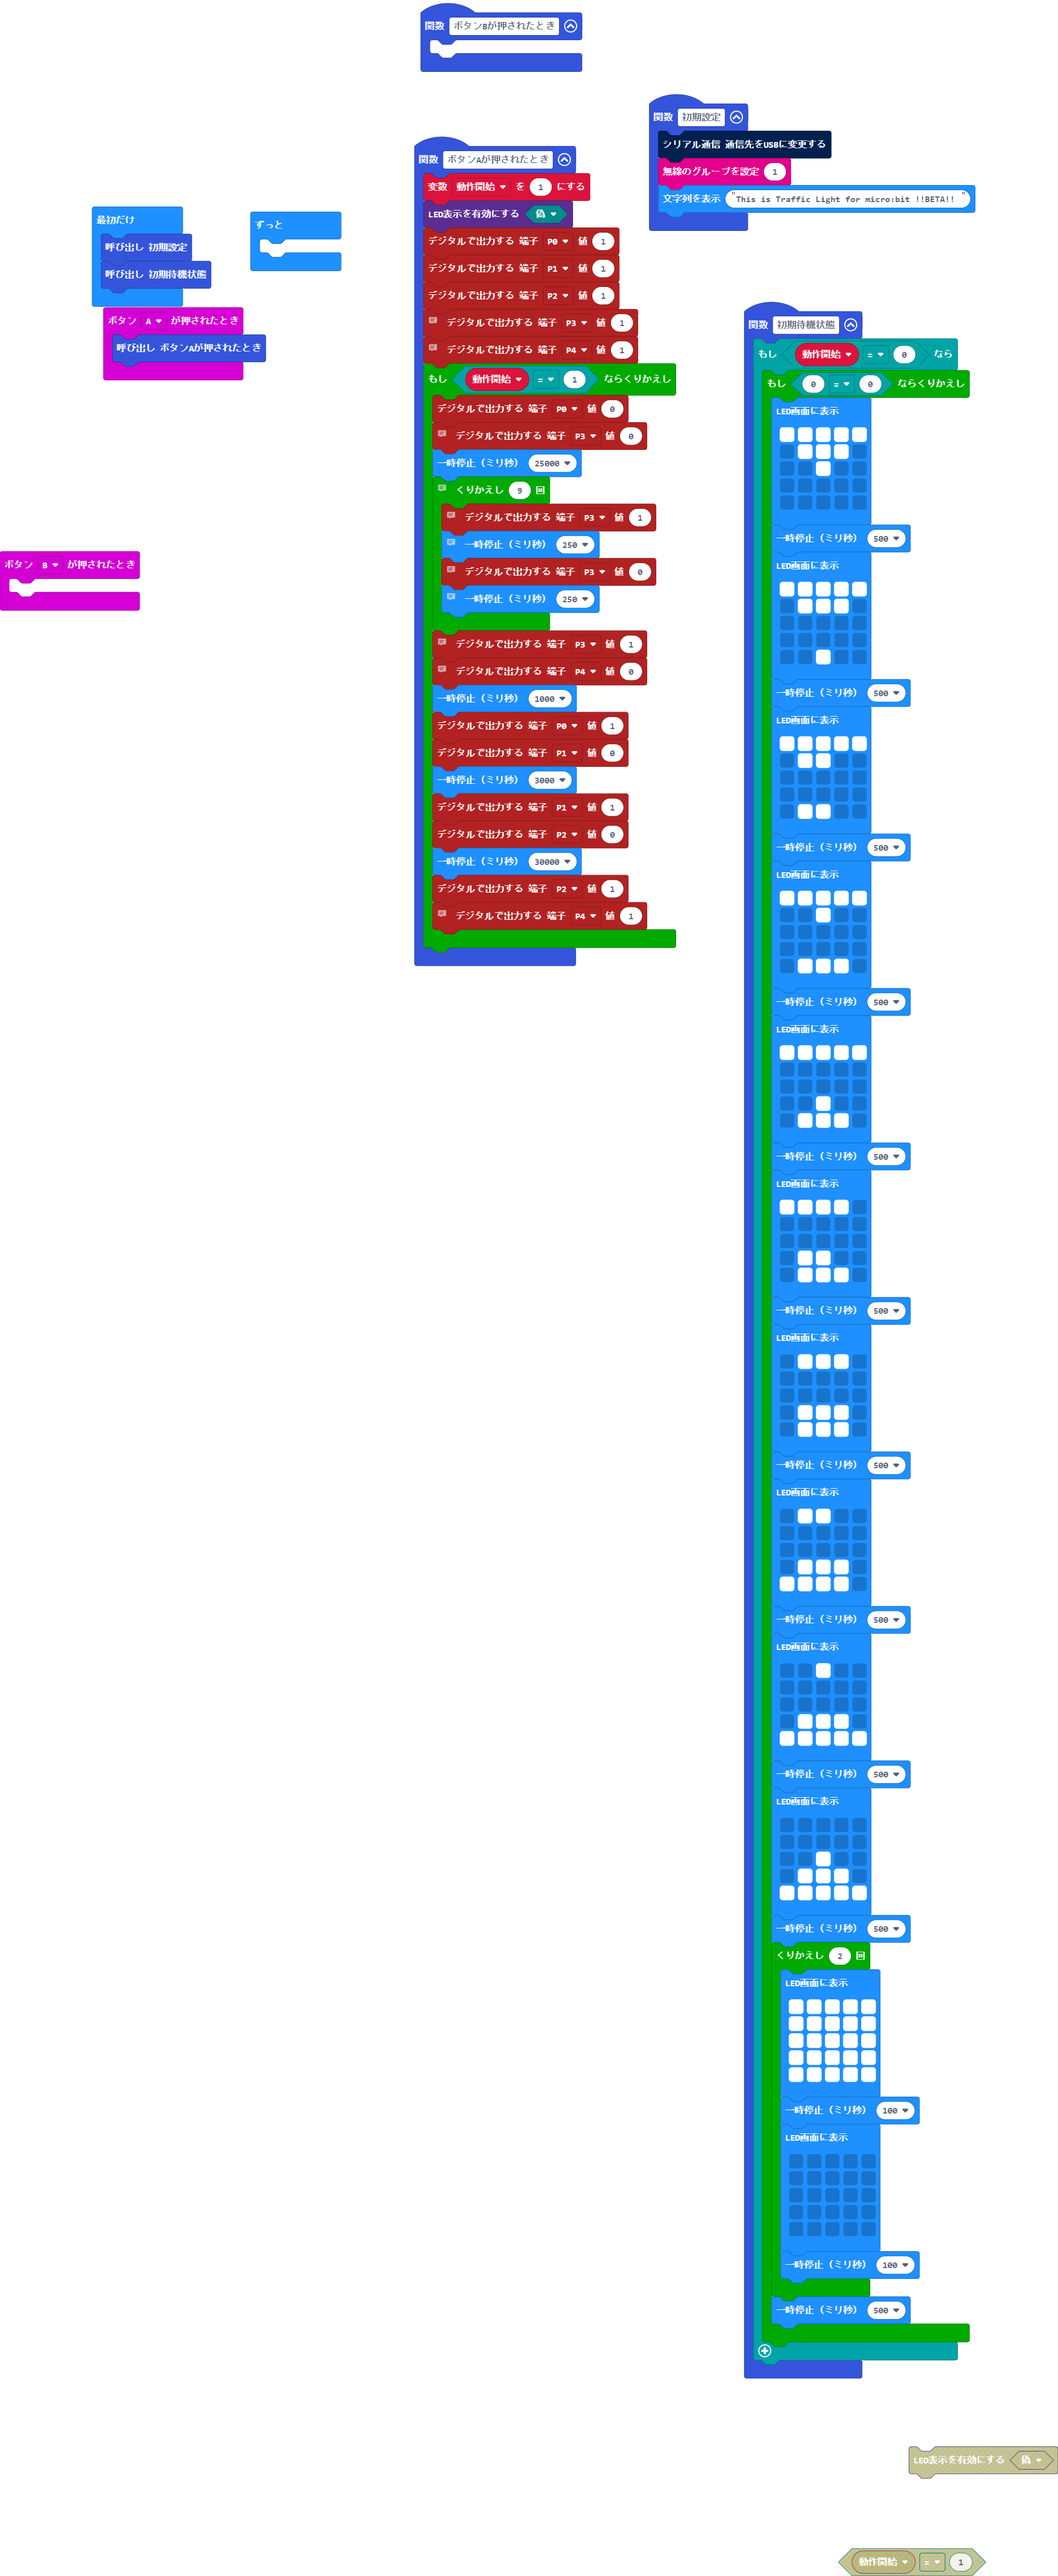
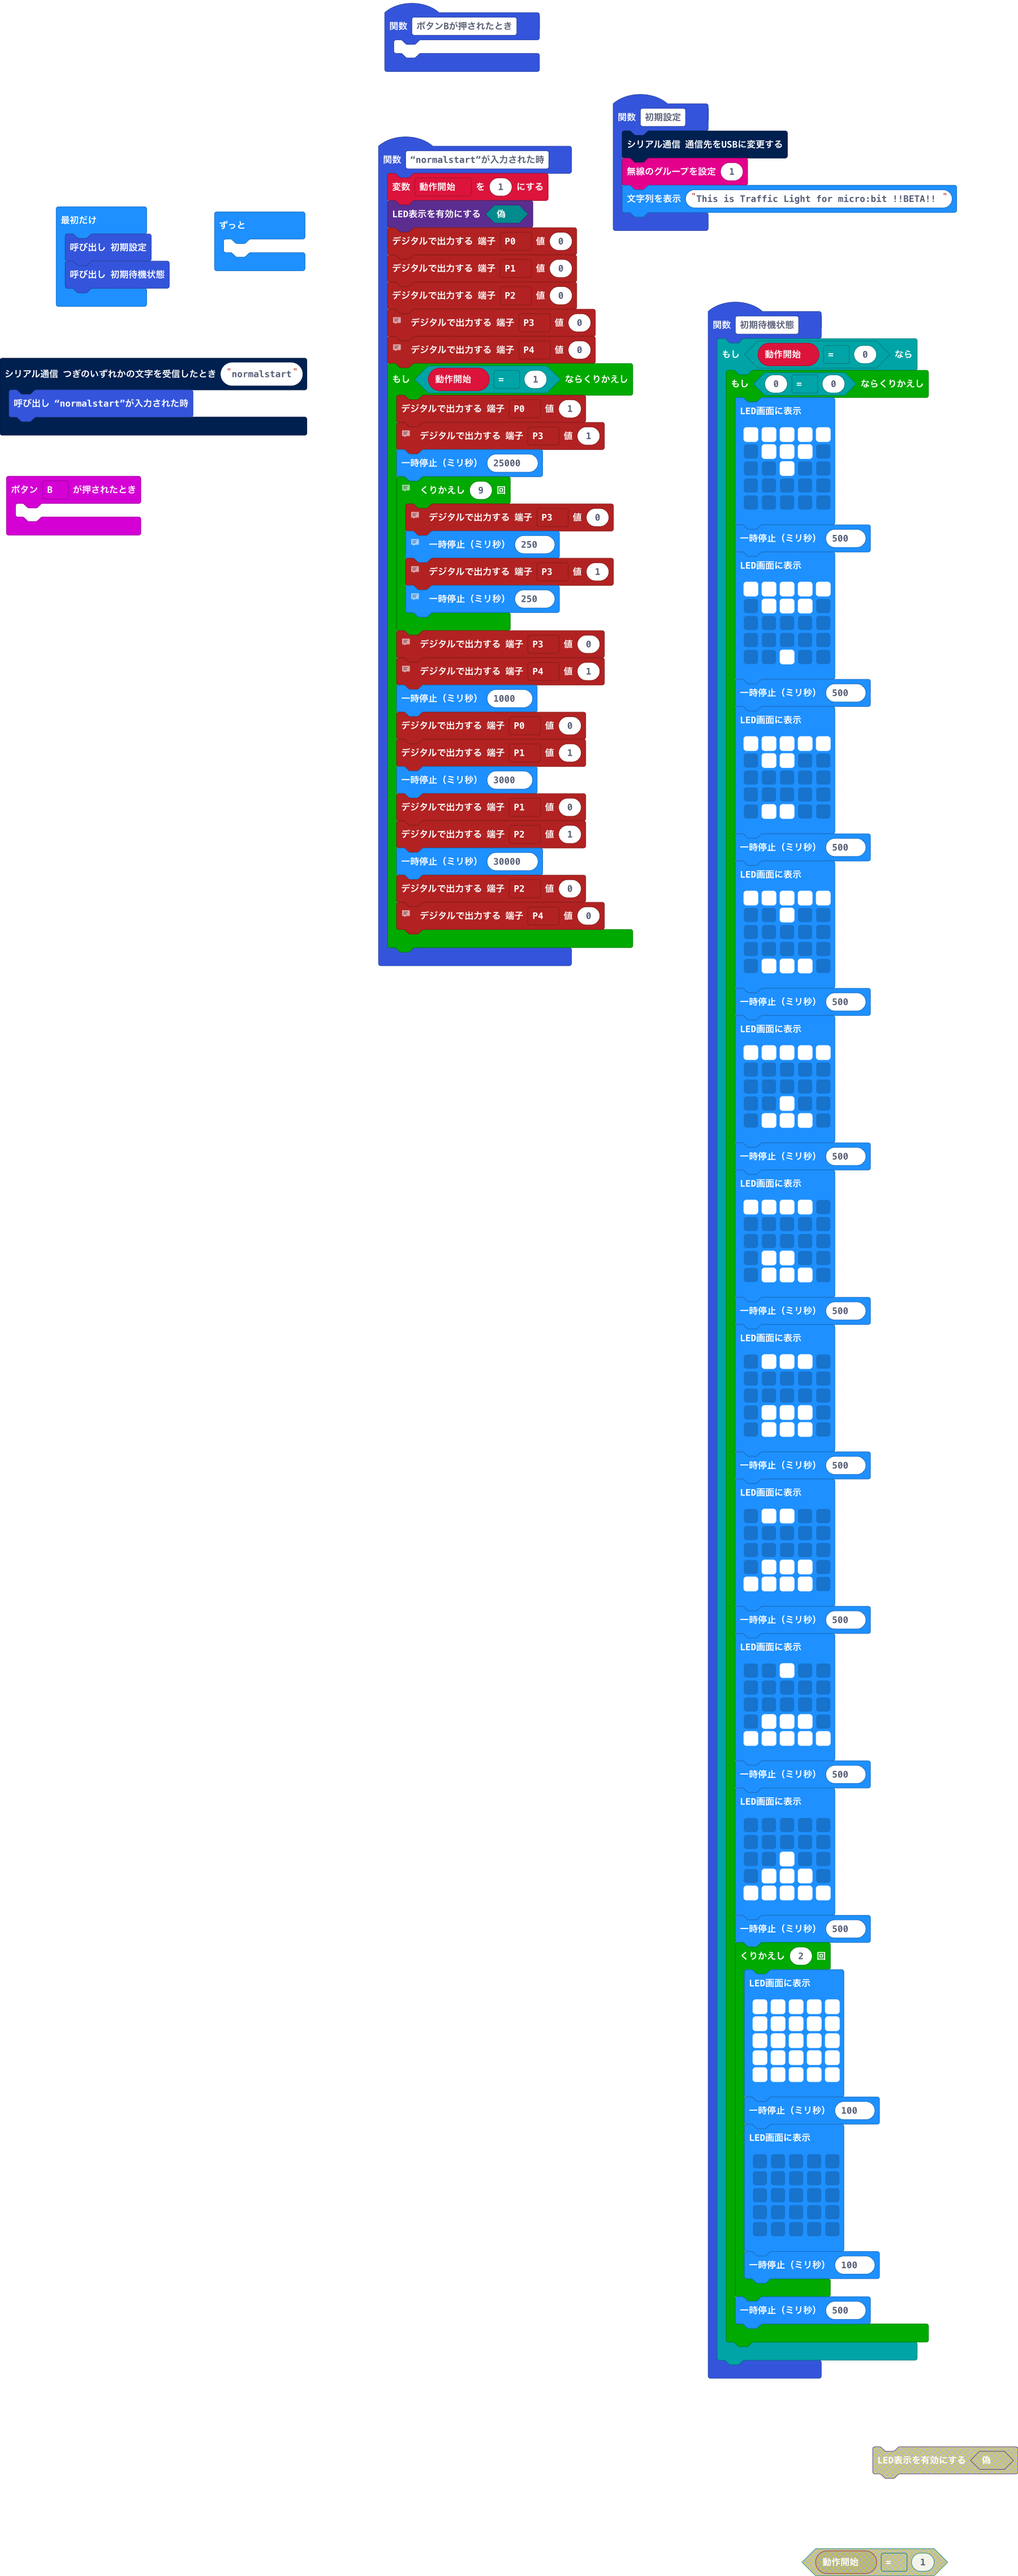
更新 main.blocks, main.ts

diff --git a/main.ts b/main.ts
@@ -3,50 +3,50 @@ function 初期設定 () {
     radio.setGroup(1)
     basic.showString("This is Traffic Light for micro:bit !!BETA!! ")
 }
-function ボタンAが押されたとき () {
+function normalstartが入力された時 () {
     動作開始 = 1
     led.enable(false)
-    pins.digitalWritePin(DigitalPin.P0, 1)
-    pins.digitalWritePin(DigitalPin.P1, 1)
-    pins.digitalWritePin(DigitalPin.P2, 1)
+    pins.digitalWritePin(DigitalPin.P0, 0)
+    pins.digitalWritePin(DigitalPin.P1, 0)
+    pins.digitalWritePin(DigitalPin.P2, 0)
     // hokohsya
-    pins.digitalWritePin(DigitalPin.P3, 1)
+    pins.digitalWritePin(DigitalPin.P3, 0)
     // hokohsya
-    pins.digitalWritePin(DigitalPin.P4, 1)
+    pins.digitalWritePin(DigitalPin.P4, 0)
     while (動作開始 == 1) {
-        pins.digitalWritePin(DigitalPin.P0, 0)
+        pins.digitalWritePin(DigitalPin.P0, 1)
         // hokohsya
-        pins.digitalWritePin(DigitalPin.P3, 0)
+        pins.digitalWritePin(DigitalPin.P3, 1)
         basic.pause(25000)
         // hokohsya
         for (let index = 0; index < 9; index++) {
             // hokohsya
-            pins.digitalWritePin(DigitalPin.P3, 1)
+            pins.digitalWritePin(DigitalPin.P3, 0)
             // hokohsya
             basic.pause(250)
             // hokohsya
-            pins.digitalWritePin(DigitalPin.P3, 0)
+            pins.digitalWritePin(DigitalPin.P3, 1)
             // hokohsya
             basic.pause(250)
         }
         // hokohsya
-        pins.digitalWritePin(DigitalPin.P3, 1)
-        // hokohsya
-        pins.digitalWritePin(DigitalPin.P4, 0)
-        basic.pause(1000)
-        pins.digitalWritePin(DigitalPin.P0, 1)
-        pins.digitalWritePin(DigitalPin.P1, 0)
-        basic.pause(3000)
-        pins.digitalWritePin(DigitalPin.P1, 1)
-        pins.digitalWritePin(DigitalPin.P2, 0)
-        basic.pause(30000)
-        pins.digitalWritePin(DigitalPin.P2, 1)
+        pins.digitalWritePin(DigitalPin.P3, 0)
         // hokohsya
         pins.digitalWritePin(DigitalPin.P4, 1)
+        basic.pause(1000)
+        pins.digitalWritePin(DigitalPin.P0, 0)
+        pins.digitalWritePin(DigitalPin.P1, 1)
+        basic.pause(3000)
+        pins.digitalWritePin(DigitalPin.P1, 0)
+        pins.digitalWritePin(DigitalPin.P2, 1)
+        basic.pause(30000)
+        pins.digitalWritePin(DigitalPin.P2, 0)
+        // hokohsya
+        pins.digitalWritePin(DigitalPin.P4, 0)
     }
 }
-input.onButtonPressed(Button.A, function () {
-    ボタンAが押されたとき()
+serial.onDataReceived("normalstart", function () {
+    normalstartが入力された時()
 })
 input.onButtonPressed(Button.B, function () {
 	
